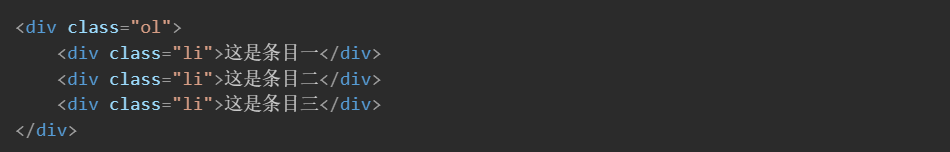
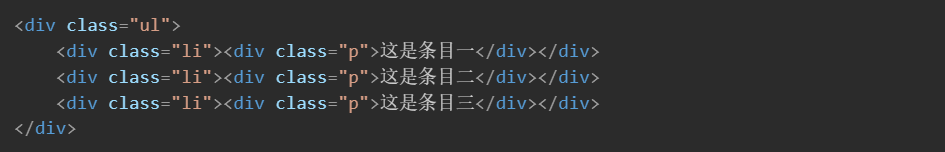
修改列表的逻辑功能

diff --git a/index.html b/index.html
@@ -17,7 +17,19 @@
                 <div class="h1">
                     从零开始打造 markdown 编译器
                 </div>
-
+                <div class="admonition tip details">
+                    <div class="title"><div class="p">tip</div></div>
+                    <div class="content">
+                        <div class="ul">
+                            <div class="li">
+                                <div class="p">前面部分是简介</div>
+                            </div>
+                            <div class="li">
+                                <div class="p">后面是使用说明和功能示例</div>
+                            </div>
+                        </div>
+                    </div>
+                </div>
                 <div class="h2">
                     为什么会有做这个项目的想法？
                 </div>
@@ -92,8 +104,8 @@
                 </div>
 
                 <div class="ol">
-                    <div class="li">前端布局</div>
-                    <div class="li">后端翻译</div>
+                    <div class="li"><div class="p">前端布局</div></div>
+                    <div class="li"><div class="p">后端翻译</div></div>
                 </div>
 
                 <div class="p">
@@ -311,33 +323,39 @@
 
                 <div class="h3">有序列表</div>
 
-                <div class="img" src="./static/image/17.png"></div>
+                <div class="img" src="./static/image/18.png"></div>
 
                 <div class="p">支持嵌套，得嵌套进 div.li 标签内 </div>
                 <div class="ol">
-                    <div class="li">这是条目一</div>
-                    <div class="li">这是条目二</div>
-                    <div class="li">这是条目三</div>
-                    <div class="li">这是条目四<div class="ol">
-                            <div class="li">这是条目四的条目一</div>
-                            <div class="li">这是条目四的条目二</div>
-                            <div class="li">这是条目四的条目三</div>
+                    <div class="li"><div class="p">这是条目一</div></div>
+                    <div class="li"><div class="p">这是条目二</div></div>
+                    <div class="li"><div class="p">这是条目三</div></div>
+                    <div class="li">
+                        <div class="p">这是条目四</div>
+                        <div class="ol">
+                            <div class="li"><div class="p">这是条目四的条目一</div></div>
+                            <div class="li"><div class="p">这是条目四的条目二</div></div>
+                            <div class="li"><div class="p">这是条目四的条目三</div></div>
                         </div></div>
                 </div>
                 <div class="h3">无序列表</div>
 
-                <div class="img" src="./static/image/18.png"></div>
+                <div class="img" src="./static/image/17.png"></div>
 
                 <div class="p">支持嵌套，得嵌套进 div.li 标签内 </div>
                 <div class="ul">
-                    <div class="li">这是条目一</div>
-                    <div class="li">这是条目二</div>
-                    <div class="li">这是条目三</div>
-                    <div class="li">这是条目四<div class="ul">
-                            <div class="li">这是条目四的条目一</div>
-                            <div class="li">这是条目四的条目二</div>
-                            <div class="li">这是条目四的条目三</div>
-                        </div></div>
+                    <div class="li"><div class="p">这是条目一</div></div>
+                    <div class="li"><div class="p">这是条目二</div></div>
+                    <div class="li"><div class="p">这是条目三</div></div>
+                    <div class="li">
+                        <div class="ul">
+                            <div class="li"><div class="p">这是条目四的条目一</div></div>
+                            <div class="li"><div class="p">这是条目四的条目二</div></div>
+                            <div class="li"><div class="p">这是条目四的条目三</div></div>
+                        </div>
+                        <div class="p">这是条目四</div>
+                    </div>
+                </div>
                     <div class="h3">块引用</div>
 
                     <div class="img" src="./static/image/19.png"></div>

diff --git a/style/css/markdownStyle.css b/style/css/markdownStyle.css
@@ -218,10 +218,13 @@
 
 .liContent {
   display: block;
+  margin-bottom: var(--li-margin-bottom);
+}
+
+.liContent > .p {
   line-height: var(--li-font-height);
   font-size: var(--li-font-size);
   color: var(--li-font-color);
-  margin-bottom: var(--li-margin-bottom);
 }
 
 .ol,
@@ -244,9 +247,10 @@
     margin-bottom: 0;
 }
 
-/* .liContent > *:first-child {
+.liContent > *:first-child {
     margin-top: 0;
-} */
+    padding-top: 0;
+}
 
 .nextLine {
   height: var(--nextLine-height);

diff --git a/介绍/列表.md b/介绍/列表.md
@@ -4,9 +4,9 @@
 
 ```html
 <div class="ol">
-    <div class="li">这是条目一</div>
-    <div class="li">这是条目二</div>
-    <div class="li">这是条目三</div>
+    <div class="li"><div class="p">这是条目一</div></div>
+    <div class="li"><div class="p">这是条目二</div></div>
+    <div class="li"><div class="p">这是条目三</div></div>
 </div>
 ```
 
@@ -23,9 +23,9 @@
 
 ```html
 <div class="ul">
-    <div class="li">这是条目一</div>
-    <div class="li">这是条目二</div>
-    <div class="li">这是条目三</div>
+    <div class="li"><div class="p">这是条目一</div></div>
+    <div class="li"><div class="p">这是条目二</div></div>
+    <div class="li"><div class="p">这是条目三</div></div>
 </div>
 ```
 
